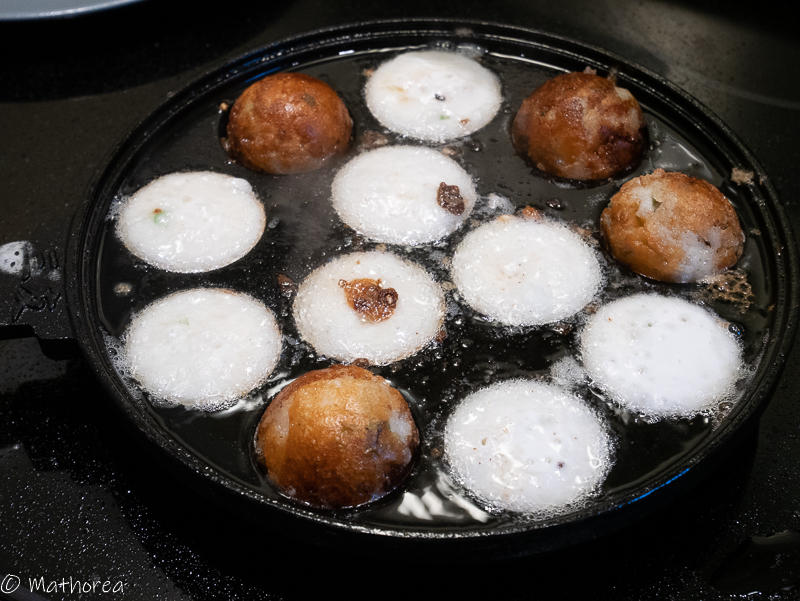
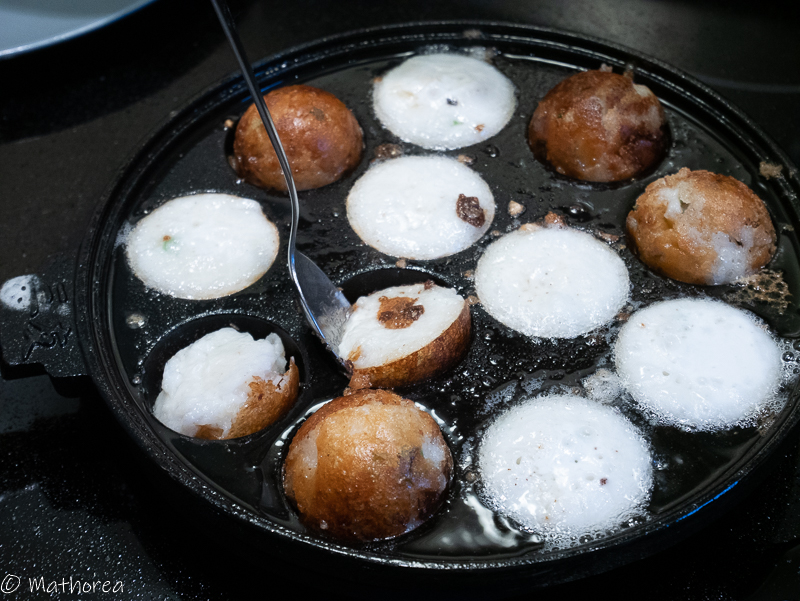
nom krok

diff --git a/content/nom_krok/index.md b/content/nom_krok/index.md
@@ -2,6 +2,7 @@
 title: "Nom krok"
 cover: "/nom_krok/cover.jpg"
 categories:
+- plat
 tags:
 - Riz
 - Lait de coco
@@ -38,6 +39,8 @@ La recette présenté ci-dessous est l'original Nom Krok Khmer mais vous pouvez 
 - 1 c à s de sucre
 - 1 c à c de sel
 
+![ingredients](01.jpg)
+
 ### Sauce vinaigrette
 
 - sauce de poisson
@@ -47,19 +50,33 @@ La recette présenté ci-dessous est l'original Nom Krok Khmer mais vous pouvez 
 - 1 piment rouge
 - 1 gousse d'ail
 
-
 ## Préparation ##
 
 1. Lavez et ciselez les ciboulettes, réservez les dans un bol.
 
+![](02.jpg)
+
 2. Dans le blender, mixez le riz cuit avec l'eau pendant 2 minutes, puis réservez la préparation dans un grand recipient.
+
+![](03.jpg)
+
+![](04.jpg)
+
+![](05.jpg)
 
 3. Versez la farine de riz, le lait de coco, le sel et le sucre, puis mélangez les bien, rajoutez les ciboulettes ciselées. La pâte est prête à cuire.
 
+![](06.jpg)
+
+![](07.jpg)
+
 4. Sauce vinaigrette: 
 - Ciselez l'ail et le piment, puis réservez dans un bol. 
-- Versez la sauce de poisson, le sucre, le vinaigre et l'eau et mélangez les jusqu'à dissolution du sucre. 
+- Versez la sauce de poisson, le sucre, le vinaigre et l'eau et mélangez les jusqu'à dissolution du sucre.
+- faites chauffer le lait de coco, puis versez dans le mélange de sauce de poisson.
 - La sauce est prête à être servis.
+
+![](08.jpg)
 
 ## Cuisson ##
 
@@ -70,7 +87,13 @@ La recette présenté ci-dessous est l'original Nom Krok Khmer mais vous pouvez 
     - mélangez bien la pâte à avant chaque remplissage, 
     - laissez cuire pendant 5 minutes avec le couvercle
 
+![](09.jpg)    
+
 3. Démoulez la boule de nom krok à l'aide deux cuillères à soupe, puis rassemblez les demi spheres ensemble, déposez les sur une grande assiette de service.
+
+![](10.jpg)
+
+![](11.jpg)
 
 4. Continuez à cuire les nom krok jusqu'à épuisement de la pâte.
 
